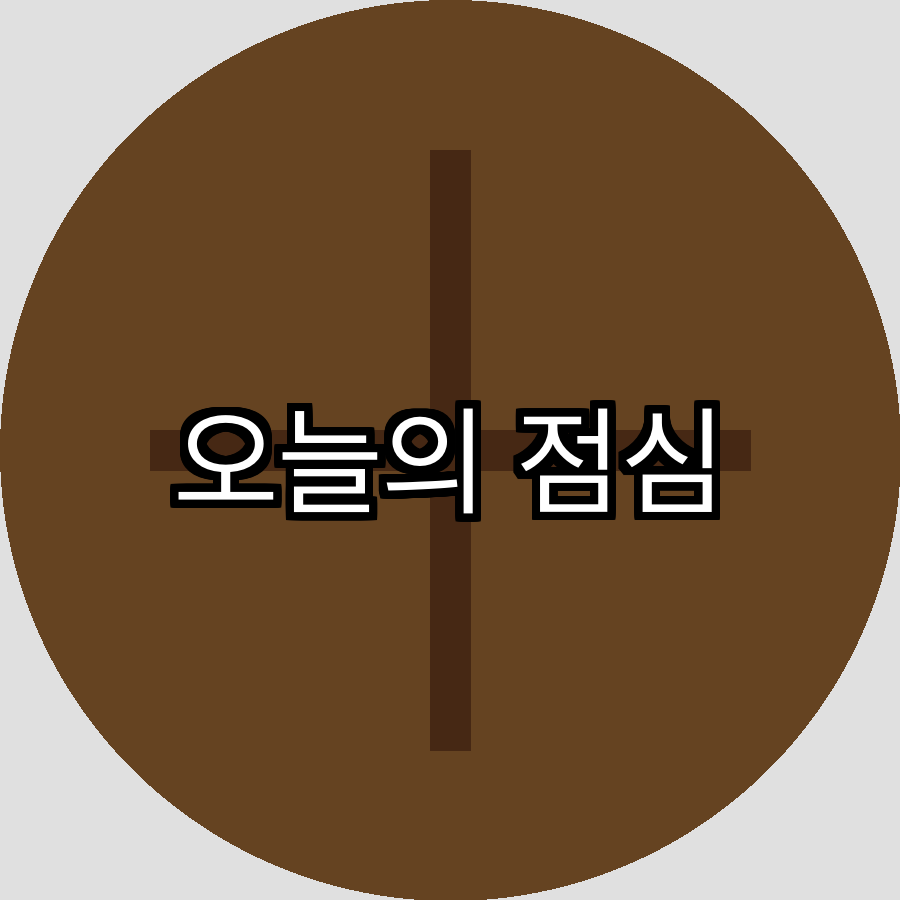
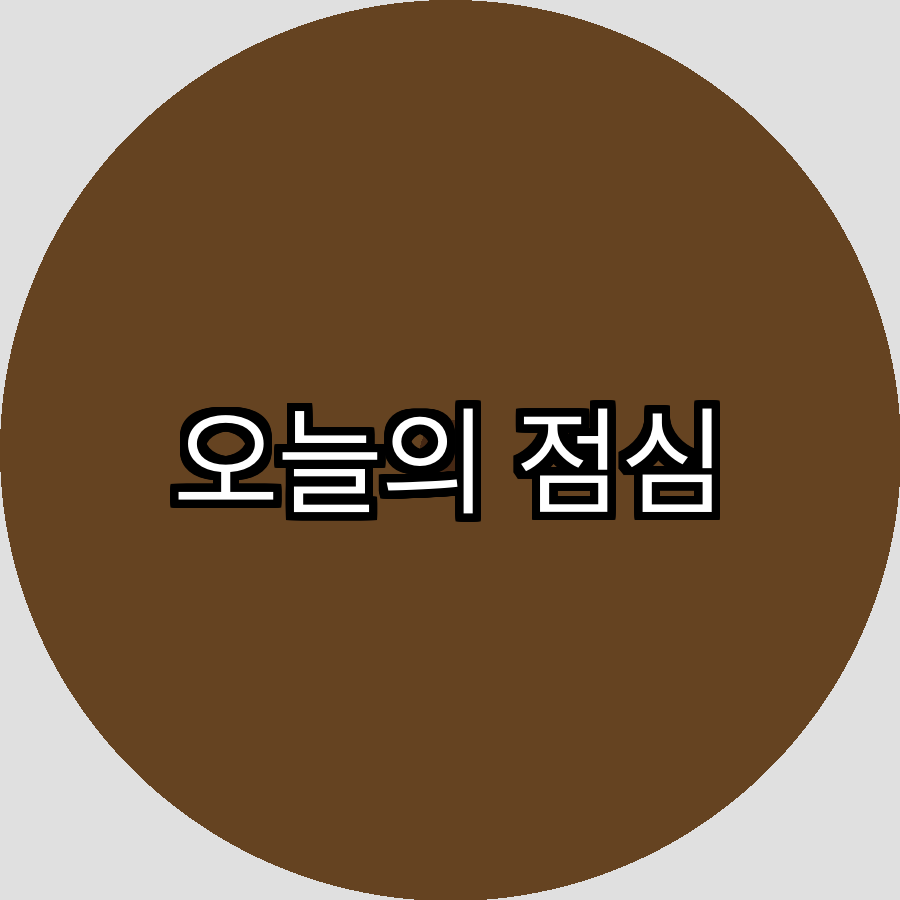
🎨 밥상 애니메이션 개선
- 가감속 효과 추가 (빠르게 시작 → 천천히 멈춤)
- 뒷면에 선택된 메뉴 이름 동적 표시
- 십자가(X자 지지대) 제거
- 중앙에 작은 원형 마크만 표시

diff --git a/app.py b/app.py
@@ -23,9 +23,17 @@ if 'history' not in st.session_state:
 st.markdown("""
 <style>
     @keyframes spin3d {
-        0% { transform: rotateY(0deg); }
-        50% { transform: rotateY(720deg); }
-        100% { transform: rotateY(1440deg); }
+        0% { 
+            transform: rotateY(0deg);
+            animation-timing-function: ease-in;
+        }
+        70% { 
+            transform: rotateY(1080deg);
+            animation-timing-function: ease-out;
+        }
+        100% { 
+            transform: rotateY(1440deg);
+        }
     }
     
     .flip-container {
@@ -245,17 +253,58 @@ with tab2:
         
         elif st.session_state.spin_step == 'spinning':
             import base64
+            from PIL import Image, ImageDraw, ImageFont
+            import io
             
-            # Load Table Front and Back Images (단색 배경)
+            picked = st.session_state.spin_picked
+            
+            # Load Front Image
             try:
                 with open("table_front_transparent.png", "rb") as f:
                     front_data = f.read()
                     table_front = base64.b64encode(front_data).decode()
-                with open("table_back_transparent.png", "rb") as f:
-                    back_data = f.read()
-                    table_back = base64.b64encode(back_data).decode()
             except:
                 table_front = ""
+            
+            # Create Back Image with Menu Name (동적 생성)
+            try:
+                # 뒷면 이미지 동적 생성
+                img = Image.new('RGB', (900, 900), (224, 224, 224))
+                draw = ImageDraw.Draw(img)
+                
+                # 원형 테이블 밑면
+                draw.ellipse((0, 0, 900, 900), fill=(101, 67, 33))
+                
+                # 중앙 마크
+                draw.ellipse((435, 435, 465, 465), fill=(70, 40, 20))
+                
+                # 메뉴 이름 텍스트
+                try:
+                    font = ImageFont.truetype("/System/Library/Fonts/AppleSDGothicNeo.ttc", 100)
+                except:
+                    font = ImageFont.load_default()
+                
+                text = picked['name']
+                bbox = draw.textbbox((0, 0), text, font=font)
+                text_width = bbox[2] - bbox[0]
+                text_height = bbox[3] - bbox[1]
+                text_x = (900 - text_width) // 2
+                text_y = (900 - text_height) // 2
+                
+                # 텍스트 외곽선
+                for adj_x in range(-8, 9):
+                    for adj_y in range(-8, 9):
+                        draw.text((text_x + adj_x, text_y + adj_y), text, font=font, fill=(0, 0, 0))
+                
+                # 텍스트 본체
+                draw.text((text_x, text_y), text, font=font, fill=(255, 255, 255))
+                
+                # PNG로 변환
+                buffer = io.BytesIO()
+                img.save(buffer, format='PNG')
+                table_back = base64.b64encode(buffer.getvalue()).decode()
+            except Exception as e:
+                print(f"뒷면 이미지 생성 실패: {e}")
                 table_back = ""
 
             # Animation: 3D Flip Card
@@ -323,17 +372,58 @@ with tab2:
             
             elif st.session_state.spin_custom_step == 'spinning':
                 import base64
+                from PIL import Image, ImageDraw, ImageFont
+                import io
                 
-                # Load Table Front and Back Images (단색 배경)
+                winner = st.session_state.spin_custom_picked
+                
+                # Load Front Image
                 try:
                     with open("table_front_transparent.png", "rb") as f:
                         front_data = f.read()
                         table_front = base64.b64encode(front_data).decode()
-                    with open("table_back_transparent.png", "rb") as f:
-                        back_data = f.read()
-                        table_back = base64.b64encode(back_data).decode()
                 except:
                     table_front = ""
+                
+                # Create Back Image with Menu Name (동적 생성)
+                try:
+                    # 뒷면 이미지 동적 생성
+                    img = Image.new('RGB', (900, 900), (224, 224, 224))
+                    draw = ImageDraw.Draw(img)
+                    
+                    # 원형 테이블 밑면
+                    draw.ellipse((0, 0, 900, 900), fill=(101, 67, 33))
+                    
+                    # 중앙 마크
+                    draw.ellipse((435, 435, 465, 465), fill=(70, 40, 20))
+                    
+                    # 메뉴 이름 텍스트
+                    try:
+                        font = ImageFont.truetype("/System/Library/Fonts/AppleSDGothicNeo.ttc", 100)
+                    except:
+                        font = ImageFont.load_default()
+                    
+                    text = winner['name']
+                    bbox = draw.textbbox((0, 0), text, font=font)
+                    text_width = bbox[2] - bbox[0]
+                    text_height = bbox[3] - bbox[1]
+                    text_x = (900 - text_width) // 2
+                    text_y = (900 - text_height) // 2
+                    
+                    # 텍스트 외곽선
+                    for adj_x in range(-8, 9):
+                        for adj_y in range(-8, 9):
+                            draw.text((text_x + adj_x, text_y + adj_y), text, font=font, fill=(0, 0, 0))
+                    
+                    # 텍스트 본체
+                    draw.text((text_x, text_y), text, font=font, fill=(255, 255, 255))
+                    
+                    # PNG로 변환
+                    buffer = io.BytesIO()
+                    img.save(buffer, format='PNG')
+                    table_back = base64.b64encode(buffer.getvalue()).decode()
+                except Exception as e:
+                    print(f"뒷면 이미지 생성 실패: {e}")
                     table_back = ""
 
                 # Animation: 3D Flip Card

diff --git a/create_transparent_images.py b/create_transparent_images.py
@@ -38,38 +38,25 @@ def make_circular_transparent(input_path, output_path, size=(900, 900)):
     output.save(output_path, 'PNG')
     print(f"✅ 단색 배경 이미지 생성 완료: {output_path}")
 
-def create_back_with_text(output_path, size=(900, 900)):
+def create_back_with_text(output_path, text="오늘의 점심", size=(900, 900)):
     """
-    밥상 뒷면 이미지 생성 (단색 배경 + "오늘의 점심" 텍스트)
+    밥상 뒷면 이미지 생성 (단색 배경 + 텍스트 - 십자가 제거)
     """
     # 단색 배경 생성 (웹 배경색과 동일: #E0E0E0)
     img = Image.new('RGB', size, (224, 224, 224))
     draw = ImageDraw.Draw(img)
     
-    # 원형 테이블 밑면 그리기 (어두운 갈색)
+    # 원형 테이블 밑면 그리기 (어두운 갈색) - 지지대 없이 깔끔하게
     draw.ellipse((0, 0, size[0], size[1]), fill=(101, 67, 33))
     
-    # 테이블 지지대 그리기 (중앙에 X자 형태)
+    # 중앙에 작은 원형 마크 (테이블 중심점 표시)
     center_x, center_y = size[0] // 2, size[1] // 2
-    bar_width = 40
-    bar_color = (70, 40, 20)
-    
-    # 가로 지지대
-    draw.rectangle(
-        (center_x - size[0]//3, center_y - bar_width//2,
-         center_x + size[0]//3, center_y + bar_width//2),
-        fill=bar_color
+    mark_radius = 30
+    draw.ellipse(
+        (center_x - mark_radius, center_y - mark_radius,
+         center_x + mark_radius, center_y + mark_radius),
+        fill=(70, 40, 20)
     )
-    
-    # 세로 지지대
-    draw.rectangle(
-        (center_x - bar_width//2, center_y - size[1]//3,
-         center_x + bar_width//2, center_y + size[1]//3),
-        fill=bar_color
-    )
-    
-    # 텍스트 추가: "오늘의 점심"
-    text = "오늘의 점심"
     
     # 폰트 설정 (시스템 한글 폰트 사용)
     try:
